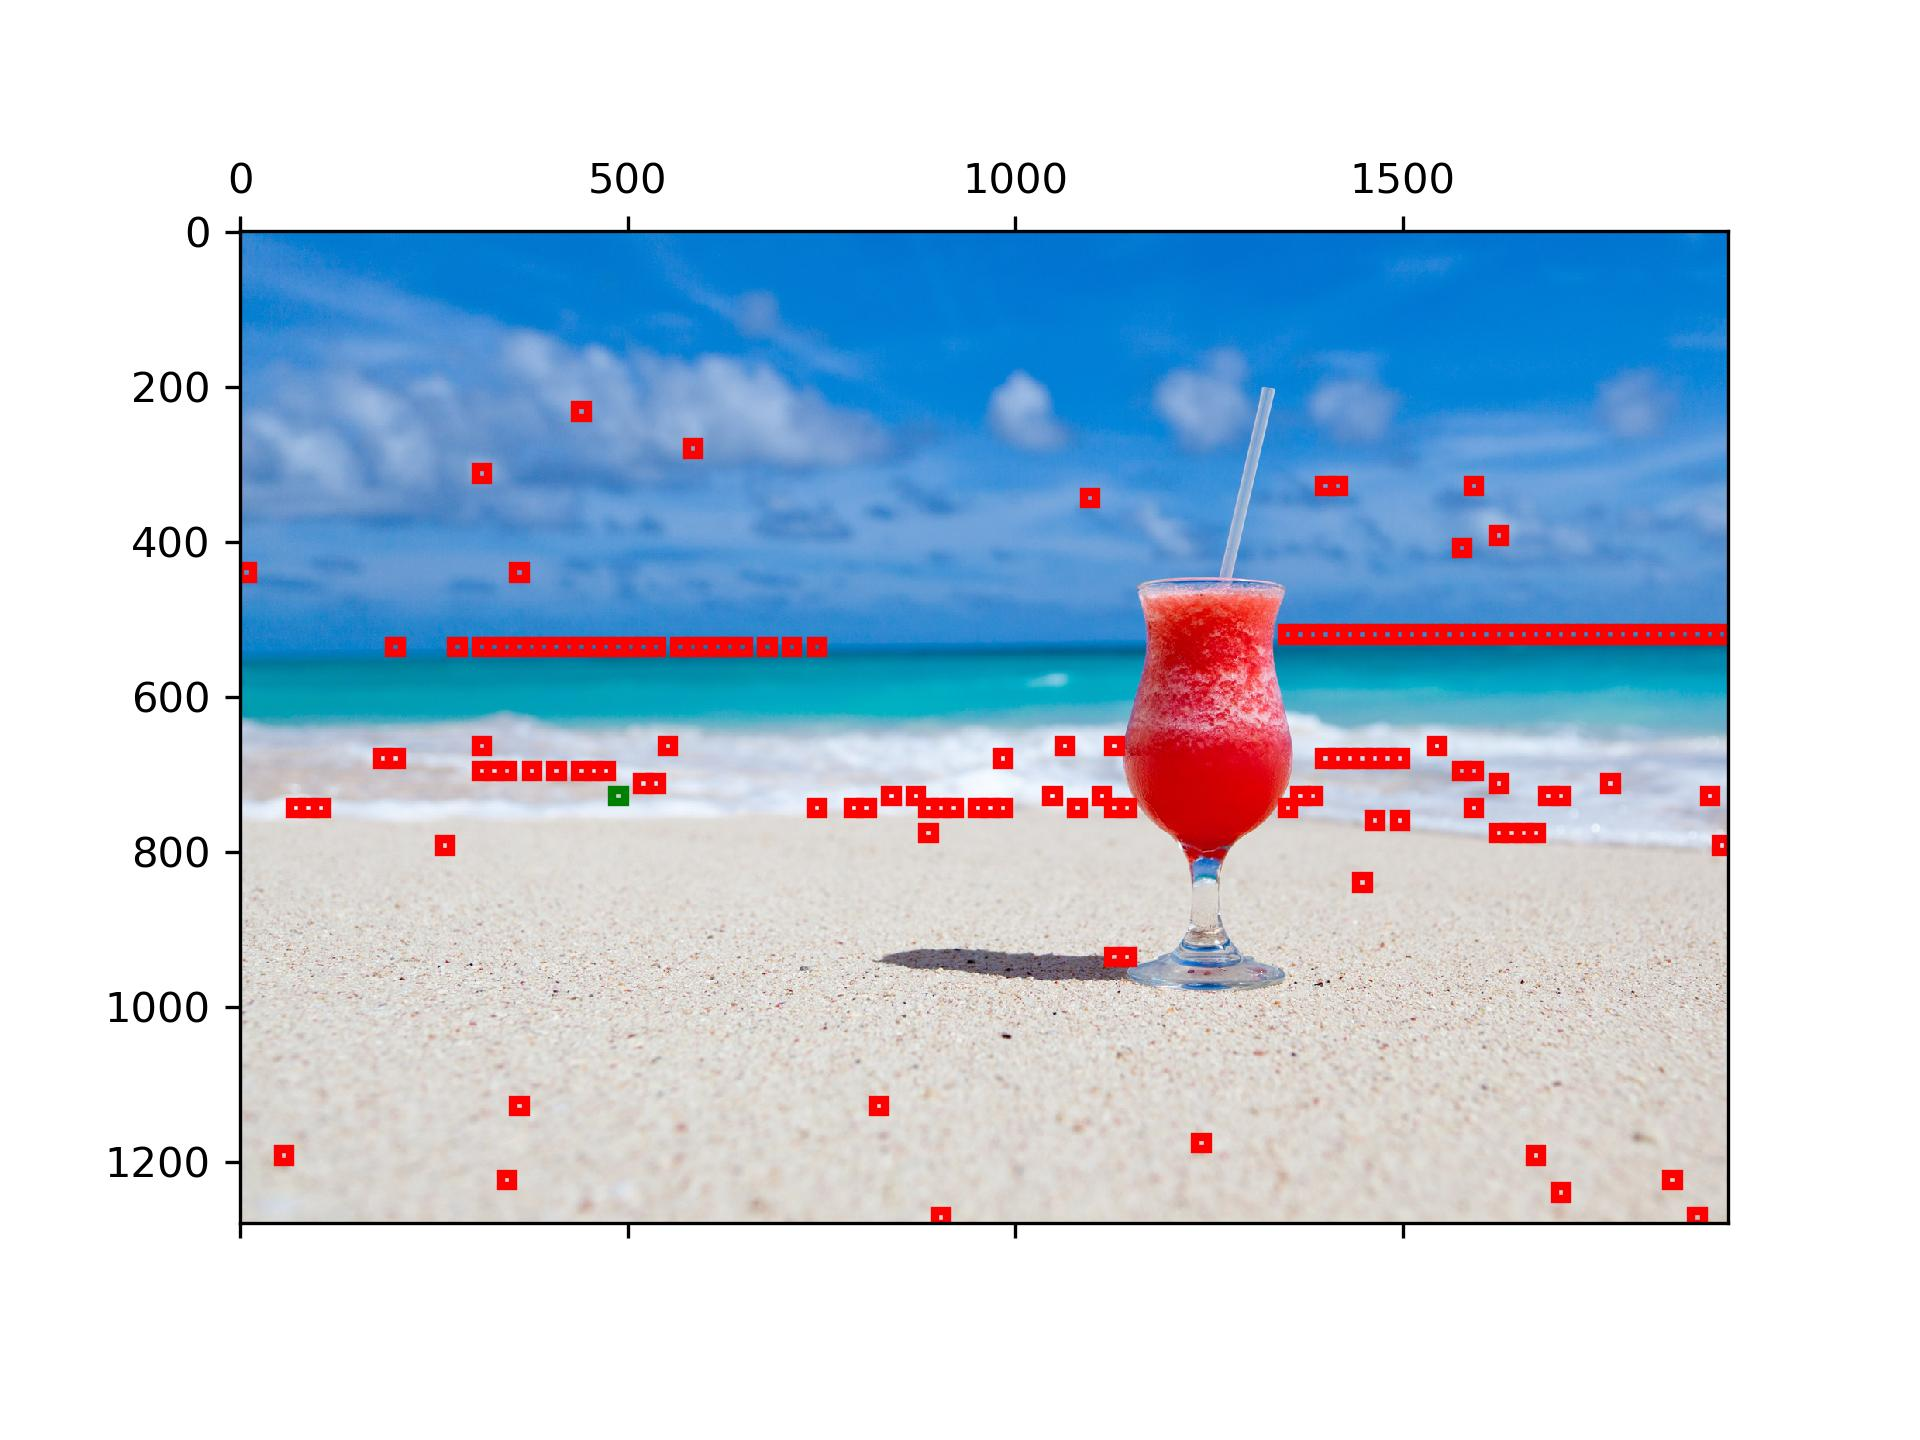
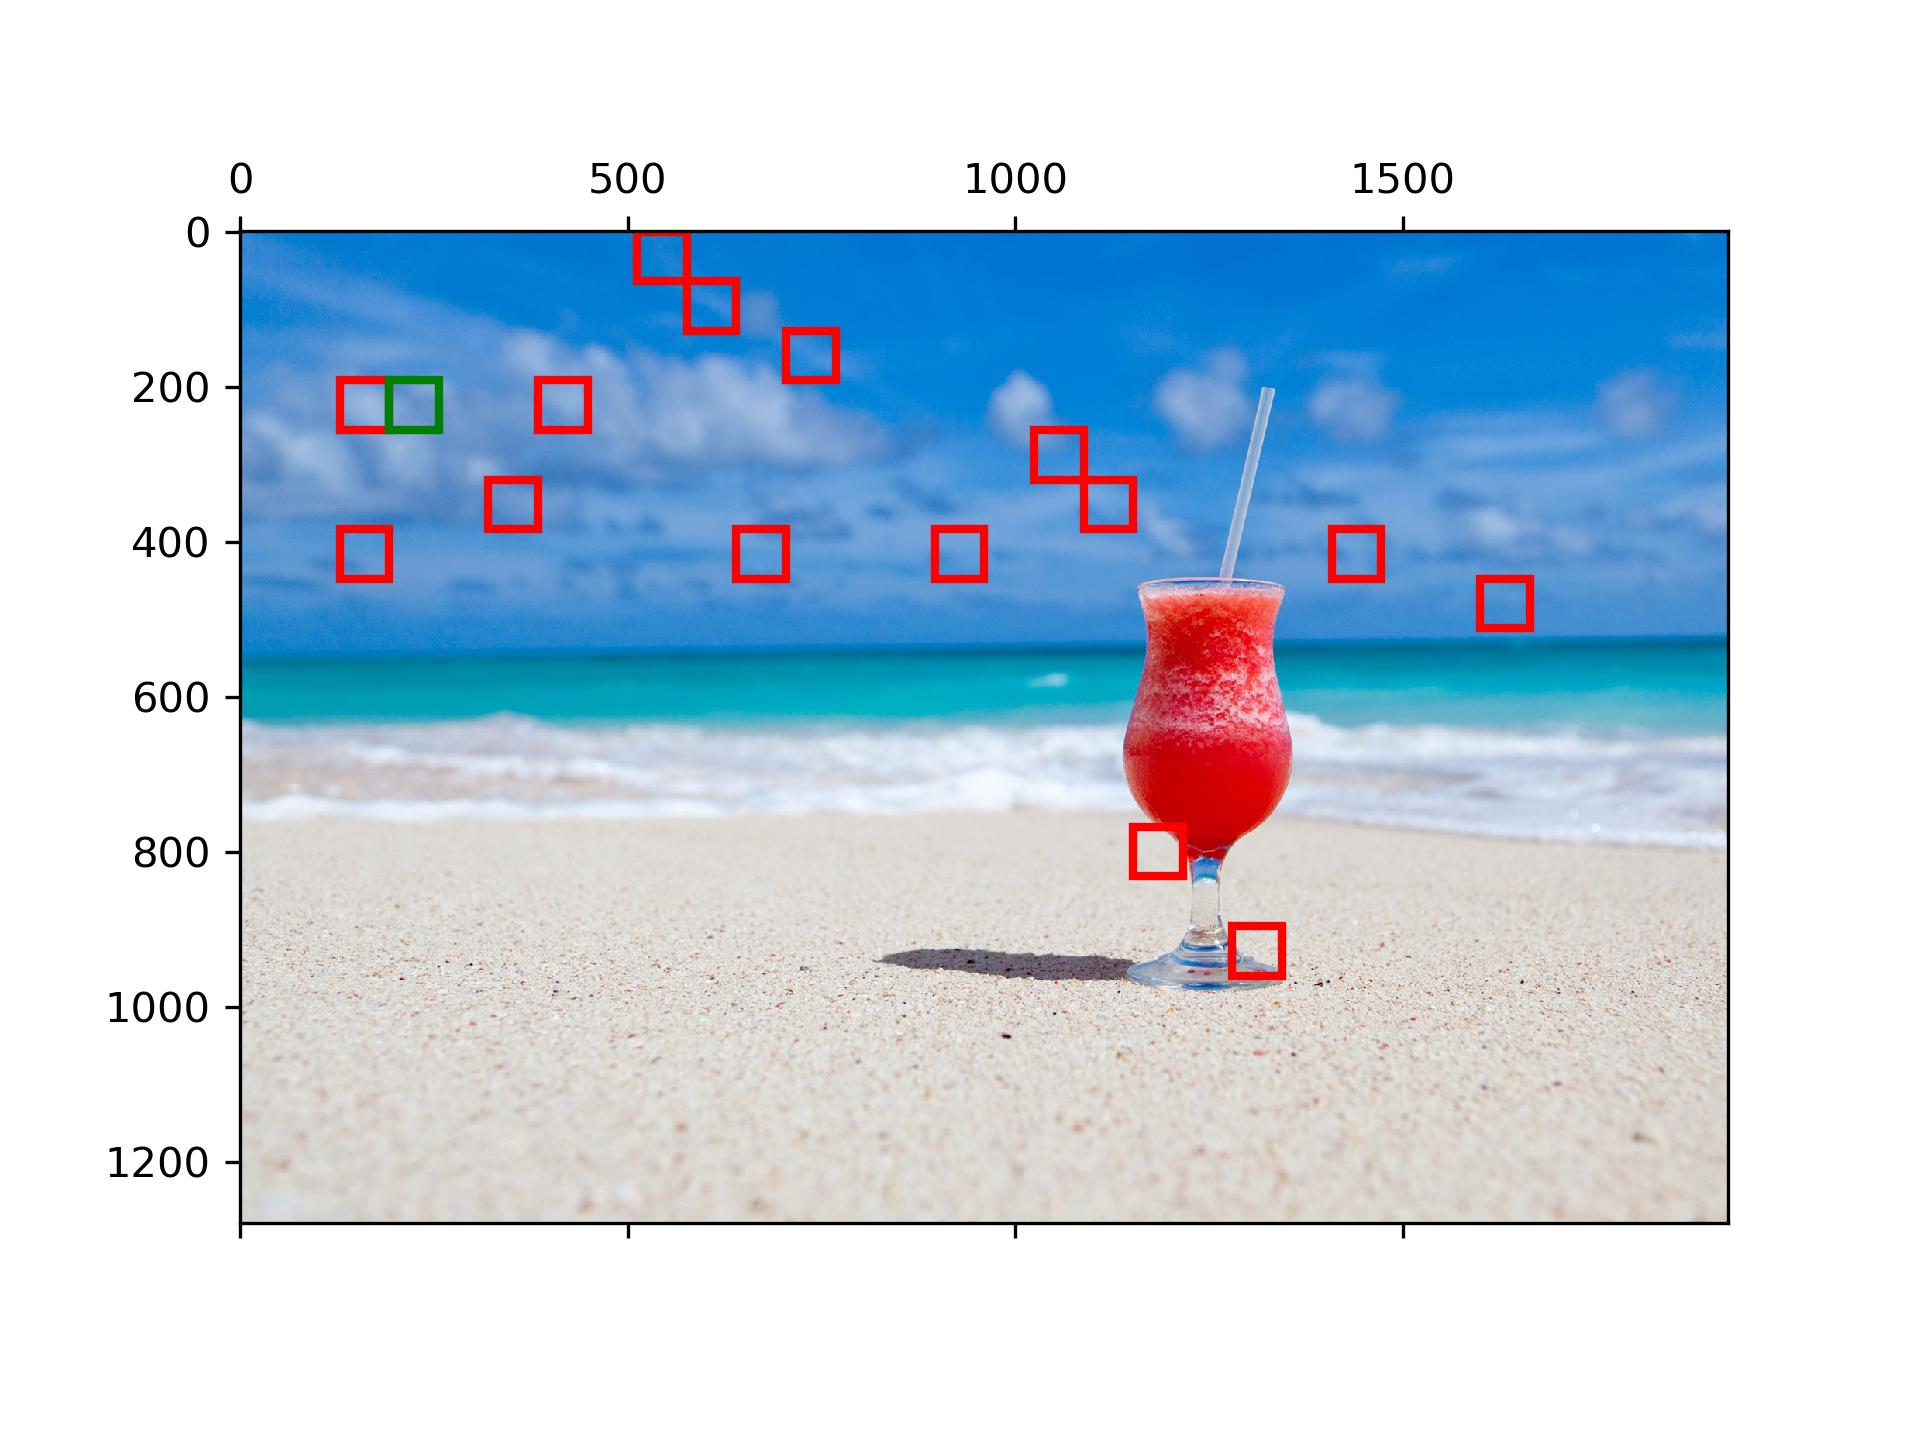
new example

diff --git a/numpy_problems/image_patch_similarity/main.py b/numpy_problems/image_patch_similarity/main.py
@@ -10,8 +10,8 @@ img_array = np.array(img)
 # (C, H, W) -> (H, W, C)
 img_array = np.moveaxis(img_array, -1, 0)
 
-H_PATCH_SIZE = 16
-W_PATCH_SIZE = 16
+H_PATCH_SIZE = 64
+W_PATCH_SIZE = 64
 
 
 def extract_patches(image_array, h_patch_size=H_PATCH_SIZE, w_patch_size=W_PATCH_SIZE):
@@ -82,7 +82,7 @@ def calculate_similarity(patches, reference_patch):
 
 def plot_similar_patches(image_array, similar_patches,
                          h_patch_index, w_patch_index,
-                         h_patch_size=16, w_patch_size=16):
+                         h_patch_size=H_PATCH_SIZE, w_patch_size=W_PATCH_SIZE):
 
     img = image_array.transpose(1, 2, 0)
 
@@ -135,8 +135,8 @@ reference_patch, h_patch_index, w_patch_index = get_reference_patch(
     patches,
     h_patches,
     w_patches,
-    h_patch_index=45,
-    w_patch_index=30
+    h_patch_index=3,
+    w_patch_index=3
 )
 
 patches = normalize_patches(patches)
@@ -148,9 +148,9 @@ print(similarity_matrix)
 similar_patches = return_similar_patches(
     image_array,
     similarity_matrix,
-    topk=150,
-    h_patch_size=16,
-    w_patch_size=16
+    topk=15,
+    h_patch_size=H_PATCH_SIZE,
+    w_patch_size=W_PATCH_SIZE
 )
 
 print(similar_patches)
